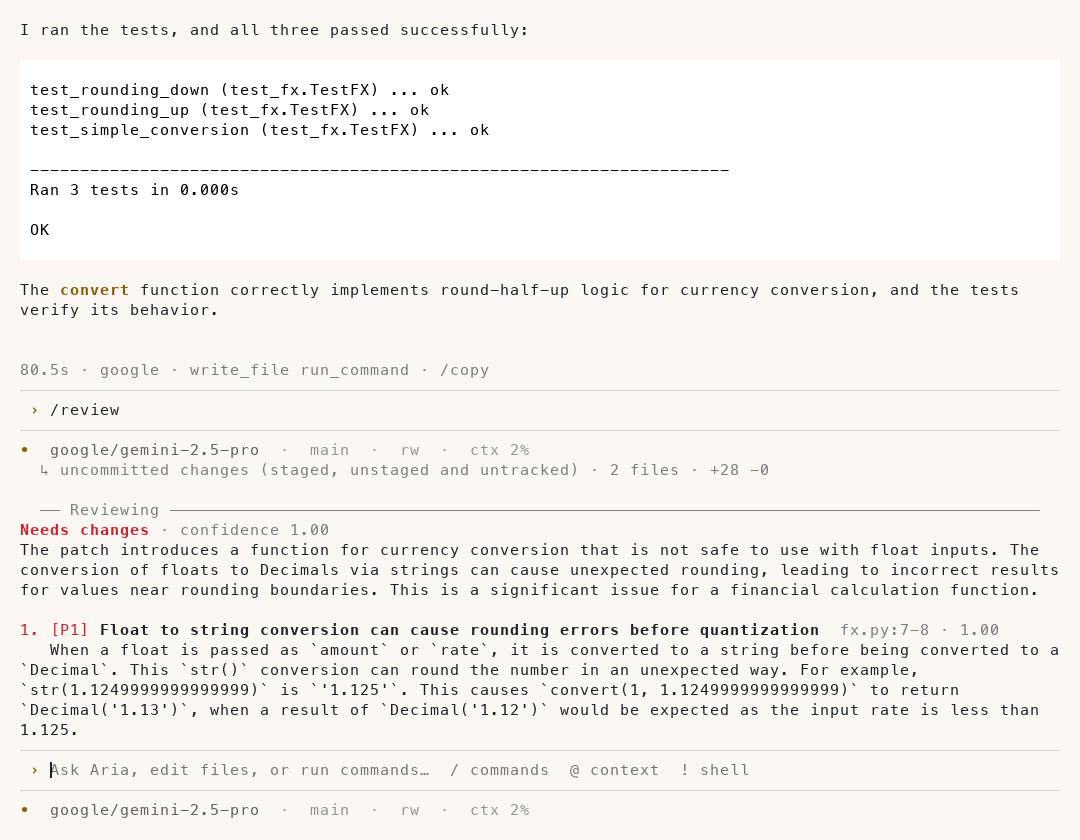
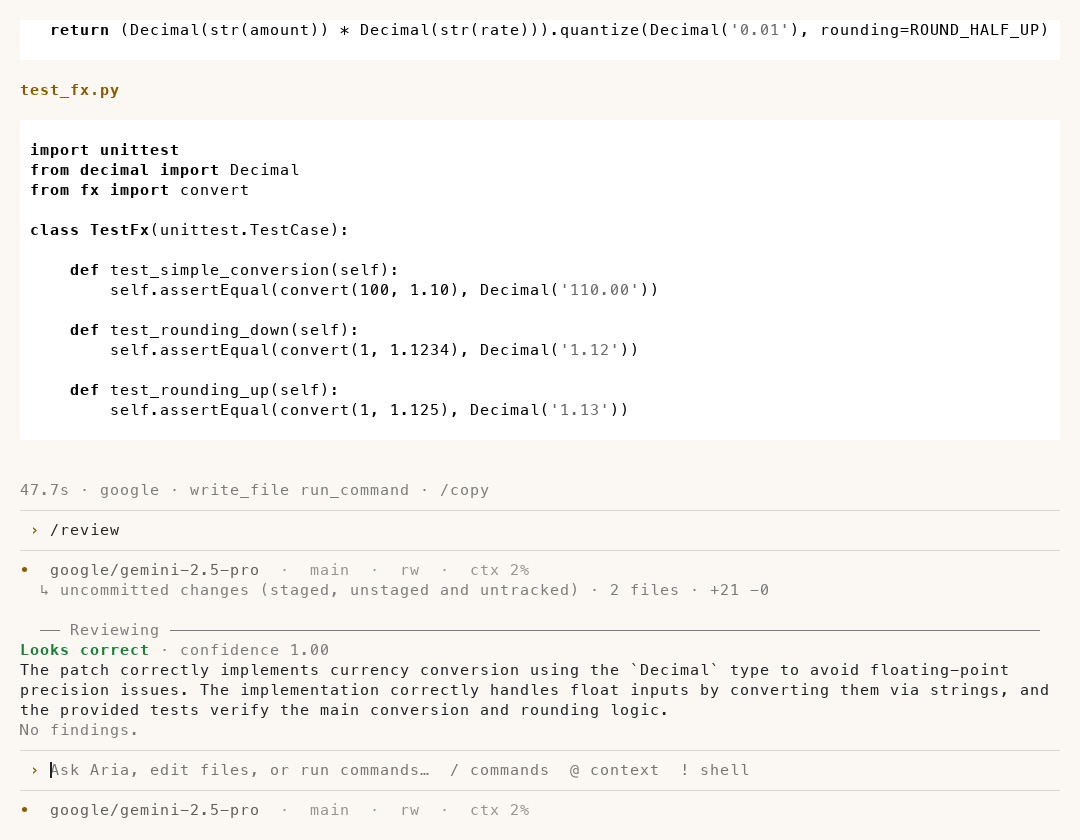
docs: re-record the demos with the new robot; keep GIF colours exact
All three README recordings now open on the compact robot banner. The coding
run's review this time found nothing, so the caption says what the recording
shows — /review checks the change and gives its verdict — instead of
promising a finding.

render_demo.py built the GIF palette by median cut over the last frame only;
that frame has usually scrolled past the banner, and the robot's orange dash
(#EDBC7F) came out tan (#DBB593). Every colour the CLI sent now gets an exact
palette slot, sampled across the recording.

diff --git a/scripts/render_demo.py b/scripts/render_demo.py
@@ -118,6 +118,10 @@ def _blend(color: str, toward: str, amount: float) -> str:
     return "#" + "".join(f"{round(x + (y - x) * amount):02X}" for x, y in zip(a, b))
 
 
+def _hex_rgb(colour: str) -> tuple[int, int, int]:
+    return tuple(int(colour[i:i + 2], 16) for i in (1, 3, 5))
+
+
 def _colour(name: str, default: str) -> str:
     if name == "default":
         return default
@@ -382,8 +386,27 @@ def write_gif(timeline: list[tuple[Frame, float]], painter: Painter, gif: Path, 
         canvas = Image.new("RGB", (body.width + 2 * pad, body.height + 2 * pad), painter.background)
         canvas.paste(body, (pad, pad))
         images.append(canvas)
-    # One palette for every frame, so colours do not shimmer between frames.
-    palette = images[-1].quantize(colors=128, method=Image.Quantize.MEDIANCUT)
+    # One palette for every frame, so colours do not shimmer between frames —
+    # built from the first, middle and last frames together: the last alone
+    # has usually scrolled past the banner, and the robot's orange was lost.
+    samples = [images[0], images[len(images) // 2], images[-1]]
+    sheet = Image.new("RGB", (samples[0].width, sum(i.height for i in samples)))
+    for n, sample in enumerate(samples):
+        sheet.paste(sample, (0, n * samples[0].height))
+    # Every colour the CLI itself sent gets an exact slot; median cut alone
+    # folded small areas — the robot's orange dash — into larger neighbours.
+    exact = {_hex_rgb(painter.background), _hex_rgb(painter.foreground)}
+    for frame, _ in timeline[::max(1, len(timeline) // 40)]:
+        for row in frame.cells:
+            for cell in row:
+                for name in (cell.fg, cell.bg):
+                    colour = _colour(name, "")
+                    if colour:
+                        exact.add(_hex_rgb(colour))
+    exact = sorted(exact)[:200]
+    fill = sheet.quantize(colors=256 - len(exact), method=Image.Quantize.MEDIANCUT).getpalette()[:3 * (256 - len(exact))]
+    palette = Image.new("P", (1, 1))
+    palette.putpalette([v for rgb in exact for v in rgb] + fill)
     frames = [image.quantize(palette=palette, dither=Image.Dither.NONE) for image in images]
     durations = [max(20, round(seconds * 100) * 10) for _, seconds in timeline]
     gif.parent.mkdir(parents=True, exist_ok=True)

diff --git a/README.md b/README.md
@@ -19,8 +19,8 @@ Numbers you can check, client data kept apart, actions a person approves.</p>
   <a href="LICENSE"><img src="https://img.shields.io/badge/license-Apache%202.0-64748b?style=flat-square" alt="Apache License 2.0"></a>
 </p>
 
-<p align="center"><img src="docs/assets/demo-coding.gif" alt="Real Aria Code session: Gemini 2.5 Pro writes fx.py and its tests, runs them after each step is approved, then /review flags a P1 precision problem in the new code" width="860"></p>
-<p align="center"><sub>A real session on Gemini 2.5 Pro (Vertex AI): Aria writes <code>fx.py</code> and its tests, runs them once each step is approved, then <code>/review</code> finds a real precision problem in the code it just wrote. Waiting is shortened; nothing else is changed. <a href="docs/assets/demo-coding.png">Still</a> · <a href="scripts/record_demo.py">Recorder</a> · <a href="scripts/render_demo.py">Renderer</a></sub></p>
+<p align="center"><img src="docs/assets/demo-coding.gif" alt="Real Aria Code session: Gemini 2.5 Pro writes fx.py and its tests, runs them after each step is approved, then /review checks the change" width="860"></p>
+<p align="center"><sub>A real session on Gemini 2.5 Pro (Vertex AI): Aria writes <code>fx.py</code> and its tests, runs them once each step is approved, then <code>/review</code> checks the change and gives its verdict. Waiting is shortened; nothing else is changed. <a href="docs/assets/demo-coding.png">Still</a> · <a href="scripts/record_demo.py">Recorder</a> · <a href="scripts/render_demo.py">Renderer</a></sub></p>
 
 ## What Aria Code does
 

diff --git a/README_CN.md b/README_CN.md
@@ -19,8 +19,8 @@
   <a href="LICENSE"><img src="https://img.shields.io/badge/license-Apache%202.0-64748b?style=flat-square" alt="Apache License 2.0"></a>
 </p>
 
-<p align="center"><img src="docs/assets/demo-coding.gif" alt="Aria Code 真实会话：Gemini 2.5 Pro 编写 fx.py 和测试，每一步经批准后运行测试，随后 /review 在新代码里发现一个 P1 精度问题" width="860"></p>
-<p align="center"><sub>真实会话，模型为 Gemini 2.5 Pro（Vertex AI）：Aria 编写 <code>fx.py</code> 和测试，每一步经你批准后运行测试，随后 <code>/review</code> 在它刚写的代码里找出一个真实的精度问题。仅缩短了等待时间，其余未做改动。<a href="docs/assets/demo-coding.png">静态截图</a> · <a href="scripts/record_demo.py">录制脚本</a> · <a href="scripts/render_demo.py">渲染脚本</a></sub></p>
+<p align="center"><img src="docs/assets/demo-coding.gif" alt="Aria Code 真实会话：Gemini 2.5 Pro 编写 fx.py 和测试，每一步经批准后运行测试，随后 /review 审查这次改动" width="860"></p>
+<p align="center"><sub>真实会话，模型为 Gemini 2.5 Pro（Vertex AI）：Aria 编写 <code>fx.py</code> 和测试，每一步经你批准后运行测试，随后 <code>/review</code> 审查这次改动并给出结论。仅缩短了等待时间，其余未做改动。<a href="docs/assets/demo-coding.png">静态截图</a> · <a href="scripts/record_demo.py">录制脚本</a> · <a href="scripts/render_demo.py">渲染脚本</a></sub></p>
 
 ## Aria Code 能做什么
 
